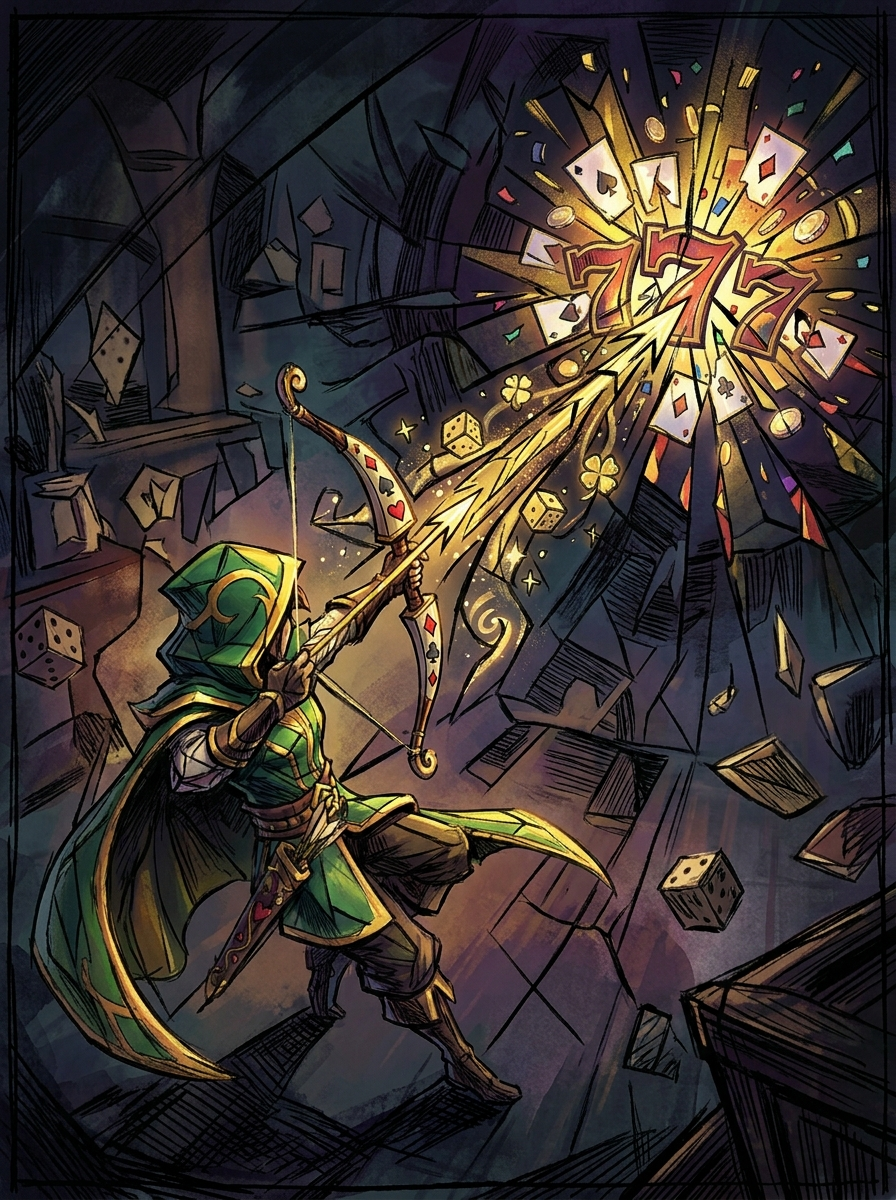
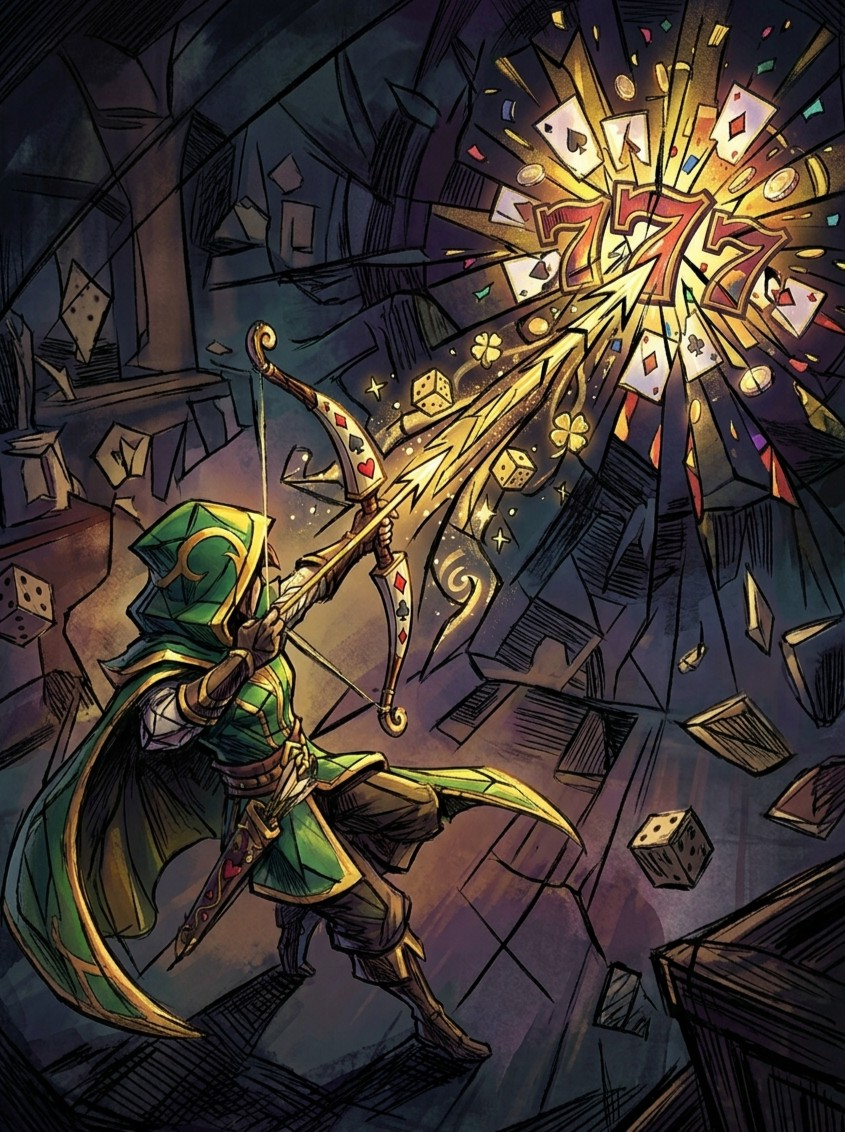
feat(assets): update Gambler's Shot art and add music element cache for battle track resume
- Replace Gambler's Shot raw JPEG with compressed version
- Rebuild optimized gamblers-shot.webp via asset pipeline
- Add music element cache so re-entering a battle resumes the track
  from its saved position instead of starting over
- Add invalidateCacheForKey to force a fresh track on new battle
- Add talent-positions.ts with elliptical layout helpers

diff --git a/src/lib/audio-music.ts b/src/lib/audio-music.ts
@@ -43,6 +43,26 @@ export function getBossMusicKey(bossId: string): string | undefined {
   }
 }
 
+// Cache of HTMLAudioElements keyed by music key, so re-entering a battle or boss fight
+// resumes the same track from its saved position instead of starting from 0.
+const musicCache = new Map<string, HTMLAudioElement>();
+
+// Returns the cached element for a key, or undefined if miss.
+function getCachedElement(key: string): HTMLAudioElement | undefined {
+  return musicCache.get(key);
+}
+
+// Invalidates (removes) the cache entry for a key. The next playMusic call for this
+// key will pick a fresh random track and create a new element.
+export function invalidateCacheForKey(key: string): void {
+  const cached = musicCache.get(key);
+  if (cached) {
+    cached.pause();
+    cached.currentTime = 0;
+  }
+  musicCache.delete(key);
+}
+
 // Global counter tracking active scene music transitions to prevent concurrent crossfades
 // from racing or playing overlapping tracks.
 let musicTransitionToken = 0;
@@ -60,26 +80,39 @@ export function applyMusicVolume(el: HTMLAudioElement) {
   el.volume = audioState.musicVolume * audioState.masterVolume * MUSIC_MASTER_GAIN;
 }
 
-// Stops and clears the current HTML audio element before starting a different track.
-function replaceCurrentTrack(track: string, volume: number) {
+// Stops and clears the current HTML audio element, then returns an element for
+// the given (key, track) pair — either from cache (resuming position) or newly created.
+function replaceCurrentTrack(key: string, track: string, volume: number) {
   if (audioState.currentMusic) {
     audioState.currentMusic.pause();
     audioState.currentMusic.currentTime = 0;
     audioState.currentMusic = null;
   }
+
+  const cached = musicCache.get(key);
+  if (cached) {
+    // Resume cached element from its saved position.
+    cached.volume = volume;
+    cached.muted = audioState.muted;
+    playElement(cached);
+    audioState.currentMusic = cached;
+    return cached;
+  }
+
   const el = new Audio(musicBase + track);
   el.loop = true;
   el.volume = volume;
   el.muted = audioState.muted;
   playElement(el);
+  musicCache.set(key, el);
   audioState.currentMusic = el;
   return el;
 }
 
-// Starts a track with the standard delayed fade-in used for scene transitions.
+// Starts a keyed track with the standard delayed fade-in used for scene transitions.
 // Leverages requestAnimationFrame for smooth volume interpolation.
-function startTrack(track: string) {
-  const el = replaceCurrentTrack(track, MUSIC_CONFIG.VOLUME_MIN);
+function startTrack(key: string, track: string) {
+  const el = replaceCurrentTrack(key, track, MUSIC_CONFIG.VOLUME_MIN);
   const startTime = performance.now();
 
   function fadeIn() {
@@ -100,20 +133,31 @@ function startTrack(track: string) {
   requestAnimationFrame(fadeIn);
 }
 
-// Starts a keyed music group immediately, choosing one registered track at random.
+// Starts a keyed music group immediately (no crossfade), choosing one registered track
+// at random or resuming a cached element.
 export function playMusicImmediate(key: string) {
   musicTransitionToken += 1;
   audioState.currentMusicKey = key;
-  const track = pickRandom(MUSIC_CONFIG.TRACKS[key as keyof typeof MUSIC_CONFIG.TRACKS] ?? []);
+
+  const cached = getCachedElement(key);
+  const track = cached?.src
+    ? pathFromSrc(cached.src)
+    : pickRandom(MUSIC_CONFIG.TRACKS[key as keyof typeof MUSIC_CONFIG.TRACKS] ?? []);
   if (!track) return;
 
   // Inlined startTrackImmediate logic to reduce indirection.
-  replaceCurrentTrack(track, audioState.musicVolume * audioState.masterVolume * MUSIC_MASTER_GAIN);
+  replaceCurrentTrack(key, track, audioState.musicVolume * audioState.masterVolume * MUSIC_MASTER_GAIN);
 }
 
-// Handles smooth fade-out interpolation of a track before starting the next one.
+// Extracts the filename portion from an absolute Audio element src URL.
+function pathFromSrc(src: string): string | undefined {
+  const parts = src.split("/");
+  return parts[parts.length - 1];
+}
+
+// Handles smooth fade-out of the old track, then starts (or resumes) the new keyed track.
 // Checks the musicTransitionToken to abort if a new transition has been scheduled.
-function fadeOutAndStartTrack(oldTrack: HTMLAudioElement, newTrack: string, transitionToken: number) {
+function fadeOutAndStartTrack(oldTrack: HTMLAudioElement, newKey: string, newTrack: string, transitionToken: number) {
   const oldVol = oldTrack.volume;
   const startTime = performance.now();
 
@@ -134,7 +178,7 @@ function fadeOutAndStartTrack(oldTrack: HTMLAudioElement, newTrack: string, tran
     if (audioState.currentMusic === oldTrack) {
       audioState.currentMusic = null;
     }
-    startTrack(newTrack);
+    startTrack(newKey, newTrack);
   }
 
   requestAnimationFrame(fadeOut);
@@ -153,12 +197,15 @@ export function playMusic(key: string) {
   musicTransitionToken = transitionToken;
   audioState.currentMusicKey = key;
 
-  const track = pickRandom(MUSIC_CONFIG.TRACKS[key as keyof typeof MUSIC_CONFIG.TRACKS] ?? []);
+  const cached = getCachedElement(key);
+  const track = cached?.src
+    ? pathFromSrc(cached.src)
+    : pickRandom(MUSIC_CONFIG.TRACKS[key as keyof typeof MUSIC_CONFIG.TRACKS] ?? []);
   if (!track) return;
 
   if (audioState.currentMusic) {
-    fadeOutAndStartTrack(audioState.currentMusic, track, transitionToken);
+    fadeOutAndStartTrack(audioState.currentMusic, key, track, transitionToken);
   } else {
-    startTrack(track);
+    startTrack(key, track);
   }
 }

diff --git a/src/features/alchemy/meta/talents/talent-positions.ts b/src/features/alchemy/meta/talents/talent-positions.ts
@@ -1,0 +1,59 @@
+import type { KeywordId } from "@/lib/game-data";
+
+interface TalentLayoutConfig {
+  radiusX: number;
+  radiusY: number;
+  rotate?: number;
+  startOffset?: number;
+}
+
+const talentLayouts: Partial<Record<KeywordId, TalentLayoutConfig>> = {
+  physical: { radiusX: 36, radiusY: 36 },
+  stun: { radiusX: 40, radiusY: 20, rotate: -23 },
+  forge: { radiusX: 42, radiusY: 28, rotate: -15 },
+  armor: { radiusX: 34, radiusY: 34 },
+  burn: { radiusX: 29, radiusY: 29 },
+  bleed: { radiusX: 27, radiusY: 33, rotate: 60, startOffset: 8 },
+  freeze: { radiusX: 30, radiusY: 30 },
+  mana: { radiusX: 46, radiusY: 22, rotate: -24 },
+  nature: { radiusX: 34, radiusY: 34 },
+  companion: { radiusX: 34, radiusY: 34 },
+  archery: { radiusX: 36, radiusY: 28, rotate: -20 },
+  consume: { radiusX: 32, radiusY: 32 },
+};
+
+const defaultLayout: TalentLayoutConfig = { radiusX: 30, radiusY: 30 };
+
+const TALENT_NODE_SIZE_PERCENT = 8.64;
+const TALENT_NODE_CENTER_OFFSET_PERCENT = TALENT_NODE_SIZE_PERCENT / 2;
+
+function talentNodePositionStyle(left: number, top: number) {
+  return {
+    left: `calc(${left}% - ${TALENT_NODE_CENTER_OFFSET_PERCENT}%)`,
+    top: `calc(${top}% - ${TALENT_NODE_CENTER_OFFSET_PERCENT}%)`,
+  };
+}
+
+function computeTalentNodePositions(keywordId: KeywordId, count: number): { left: number; top: number }[] {
+  if (count === 0) return [];
+  if (count === 1) return [{ left: 50, top: 50 }];
+
+  const { radiusX, radiusY, rotate, startOffset } = talentLayouts[keywordId] ?? defaultLayout;
+  const rotateRad = ((rotate ?? 0) * Math.PI) / 180;
+  const cosR = Math.cos(rotateRad);
+  const sinR = Math.sin(rotateRad);
+  const offset = startOffset ?? 0;
+
+  return Array.from({ length: count }, (_, i) => {
+    const angle = -Math.PI / 2 + (2 * Math.PI * ((i + offset) % count)) / count;
+    const dx = radiusX * Math.cos(angle);
+    const dy = radiusY * Math.sin(angle);
+    return {
+      left: 50 + dx * cosR - dy * sinR,
+      top: 50 + dx * sinR + dy * cosR,
+    };
+  });
+}
+
+export { computeTalentNodePositions, talentNodePositionStyle, TALENT_NODE_SIZE_PERCENT };
+export type { TalentLayoutConfig };

diff --git a/src/app/use-app-audio-effects.ts b/src/app/use-app-audio-effects.ts
@@ -14,8 +14,8 @@ import {
   setSfxVolume,
 } from "@/lib/audio";
 import { audioState } from "@/lib/audio-state";
-import { getBossMusicKey } from "@/lib/audio-music";
-import { readBattleStore } from "@/features/alchemy/shared/stores/run-session-facade";
+import { getBossMusicKey, invalidateCacheForKey } from "@/lib/audio-music";
+import { useRunDomainStore, readBattleStore } from "@/features/alchemy/shared/stores/run-session-facade";
 import type { Screen } from "@/features/alchemy/shared/types";
 
 type AppAudioEffectsOptions = {
@@ -72,6 +72,18 @@ export function useAppAudioEffects({ masterVol, musicVol, sfxVol, muteInBackgrou
   }, [muteInBackground]);
 
   const initialScreenRef = useRef(true);
+
+  const hasActiveBattle = useRunDomainStore((s) => s.battle.hasActiveBattle);
+  const lastBattleActiveRef = useRef(hasActiveBattle);
+  useEffect(() => {
+    // When a new battle starts (false → true), invalidate the cache for any battle
+    // or boss key so the track will be fresh, not a resume of the previous battle.
+    if (hasActiveBattle && !lastBattleActiveRef.current) {
+      const musicKey = pickMusicKey(screen);
+      invalidateCacheForKey(musicKey);
+    }
+    lastBattleActiveRef.current = hasActiveBattle;
+  }, [hasActiveBattle, screen]);
 
   useEffect(() => {
     screenRef.current = screen;

diff --git a/src/index.css b/src/index.css
@@ -163,6 +163,7 @@
       0 4px 16px rgba(0, 0, 0, 0.6);
   }
 
+
   .boss-title-shine {
     animation: boss-title-shine 10s linear infinite;
     will-change: background-position;
@@ -440,6 +441,7 @@
     opacity: 1;
   }
 }
+
 
 @keyframes cardShimmer {
   0% {
